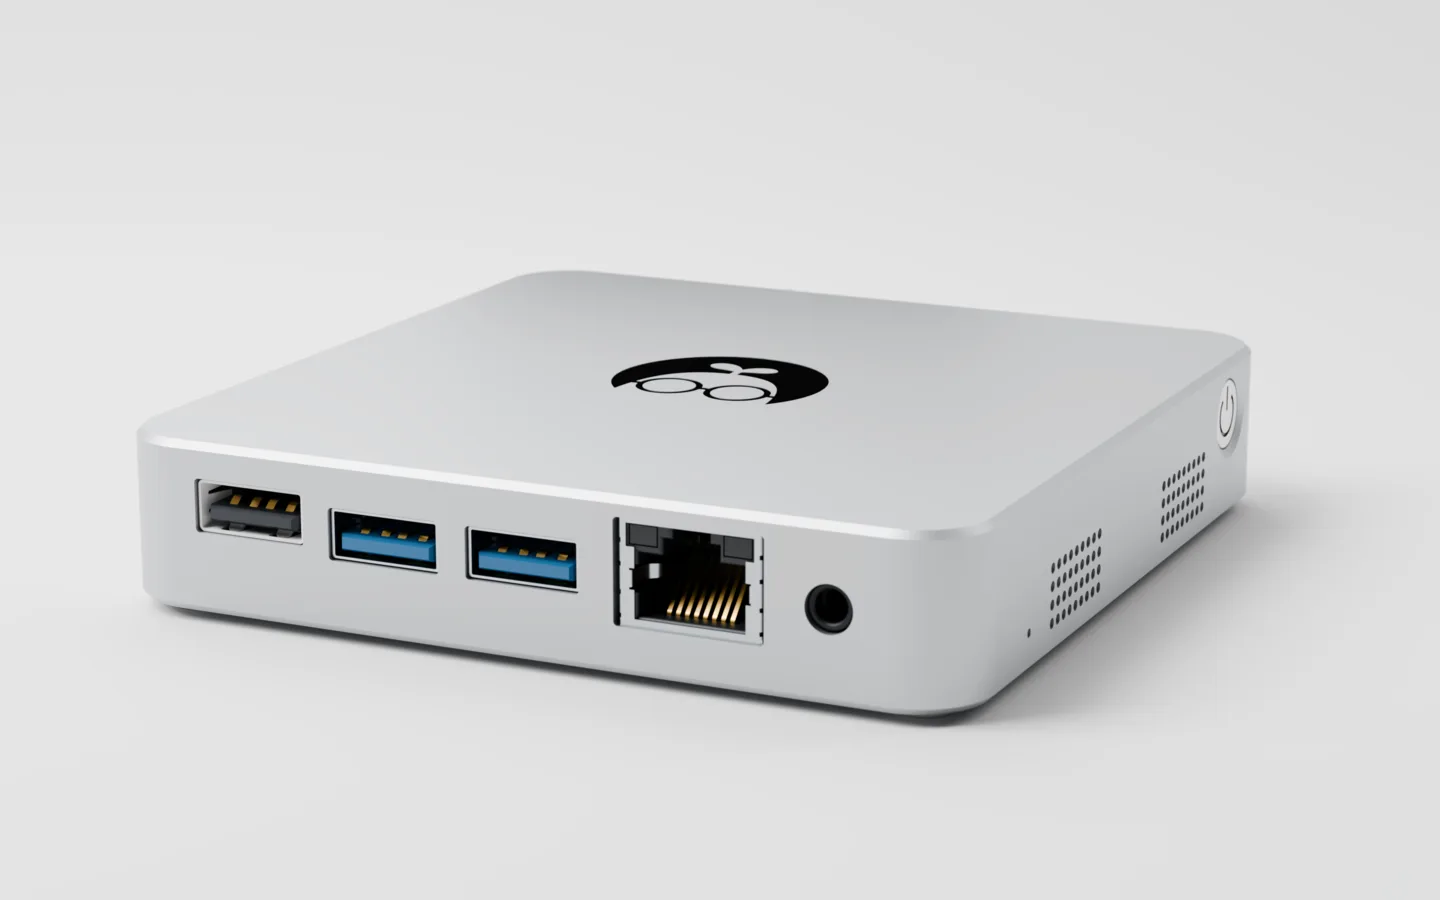
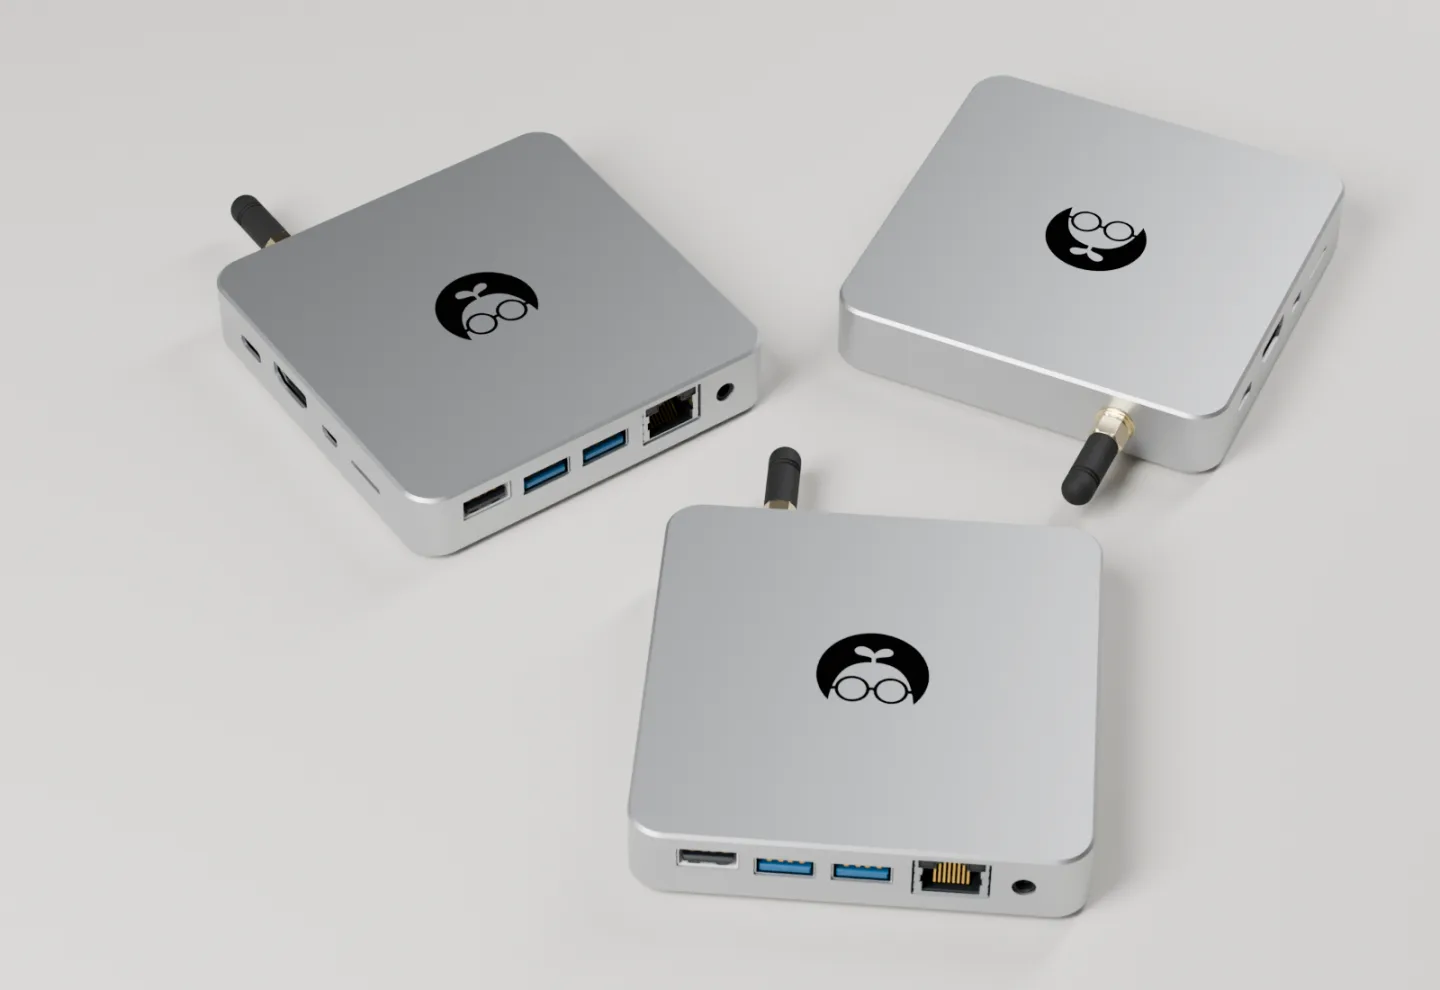
feat: show three Kim minis in the landing page's setup card
The setup card used the single-box hero render. It now shows the 12-triangle render, three boxes on a light table, which reads as hardware a company keeps rather than a product shot, and its alt text describes it.

diff --git a/web/src/lib/landing/text.ts b/web/src/lib/landing/text.ts
@@ -138,7 +138,7 @@ export const landingText = {
 					{ title: '직접 운영', body: '앱과 데이터베이스까지 회사가 직접 운영합니다.' }
 				],
 				guide: '셀프호스팅 안내',
-				kimMini: '안테나가 달린 은색 정사각형 상자 앞면에 김인턴 얼굴이 새겨진 김미니'
+				kimMini: '김미니 세 대. 윗면에 김인턴 얼굴이 새겨진 은색 정사각형 상자에 짧은 안테나가 달려 있습니다.'
 			}
 		},
 		closing: { title: '회사를 만들고 동료를 초대하세요', quickstart: '빠른 시작 읽기' },
@@ -283,7 +283,7 @@ export const landingText = {
 					{ title: 'Self-hosting', body: 'Run the app and database yourself.' }
 				],
 				guide: 'Self-hosting guide',
-				kimMini: 'Kim mini, a square silver box with an antenna and the Intern Kim face on the front'
+				kimMini: 'Three Kim minis: square silver boxes with the Intern Kim face on top and a short antenna.'
 			}
 		},
 		closing: { title: 'Create a company and invite your team', quickstart: 'Read the quickstart' },

diff --git a/web/src/routes/+page.svelte b/web/src/routes/+page.svelte
@@ -103,7 +103,7 @@
 					</Card.Content>
 				</Card.Root>
 				<Card.Root class="gap-0 overflow-hidden py-0 md:grid md:grid-cols-2">
-					<img src="/landing/kim-mini.webp" alt={text.plans.run.kimMini} width="1200" height="800" loading="lazy" class="aspect-[3/2] h-full w-full object-cover max-md:border-b md:border-r" />
+					<img src="/landing/kim-mini.webp" alt={text.plans.run.kimMini} width="1440" height="990" loading="lazy" class="aspect-[16/11] h-full w-full object-cover max-md:border-b md:border-r" />
 					<div class="grid content-start gap-6 py-6">
 						<Card.Header><Card.Title class="text-lg">{text.plans.run.title}</Card.Title></Card.Header>
 						<Card.Content class="grid gap-4">
